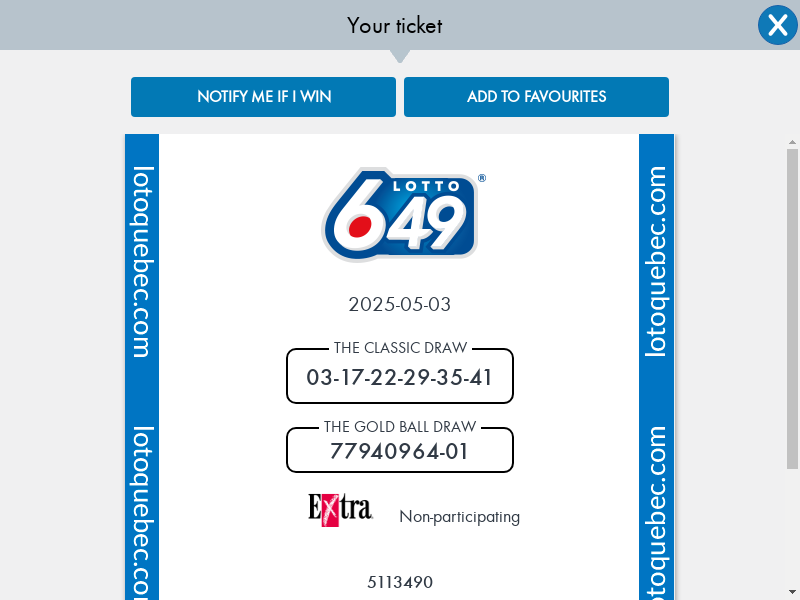
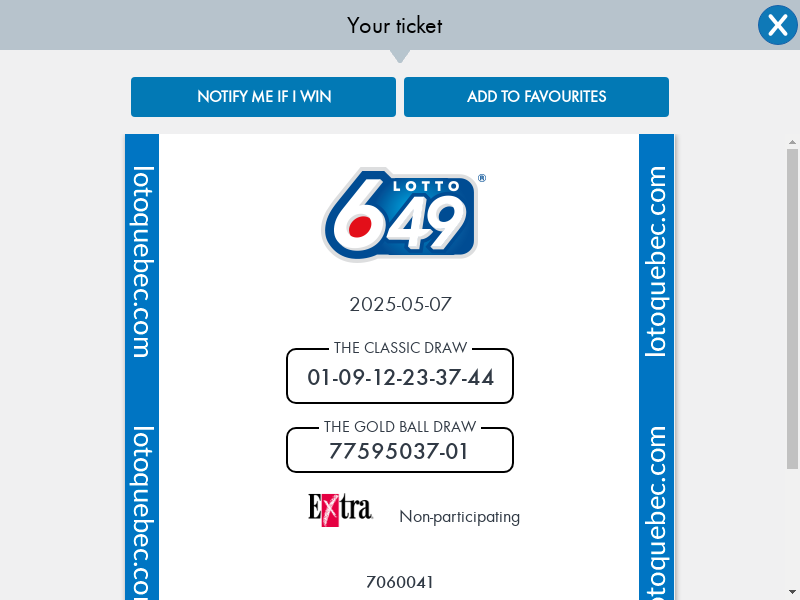
auto commit

diff --git a/docs/index.html b/docs/index.html
@@ -76,7 +76,21 @@
             </tr>
             </thead>
             <tbody>
-            <tr><td>2025-04-30</td><td>03-17-22-29-35-41</td><td>empty</td><td>{
+            <tr><td>2025-05-03</td><td>01-09-12-23-37-44</td><td>empty</td><td>{
+  "generate_nums": [
+    "01",
+    "09",
+    "12",
+    "23",
+    "37",
+    "44"
+  ]
+}</td></tr>
+<tr><td>2025-04-30</td><td>03-17-22-29-35-41</td><td>match 2 number, win number: The Classic Draw
+
+
+12-22-25-30-36-41 Bonus (B):
+(14)</td><td>{
   "generate_nums": ["03", "17", "22", "29", "35", "41"]
 }</td></tr>
 <tr><td>2025-04-26</td><td>02-11-18-26-35-42</td><td>match 1 number, win number: The Classic Draw
